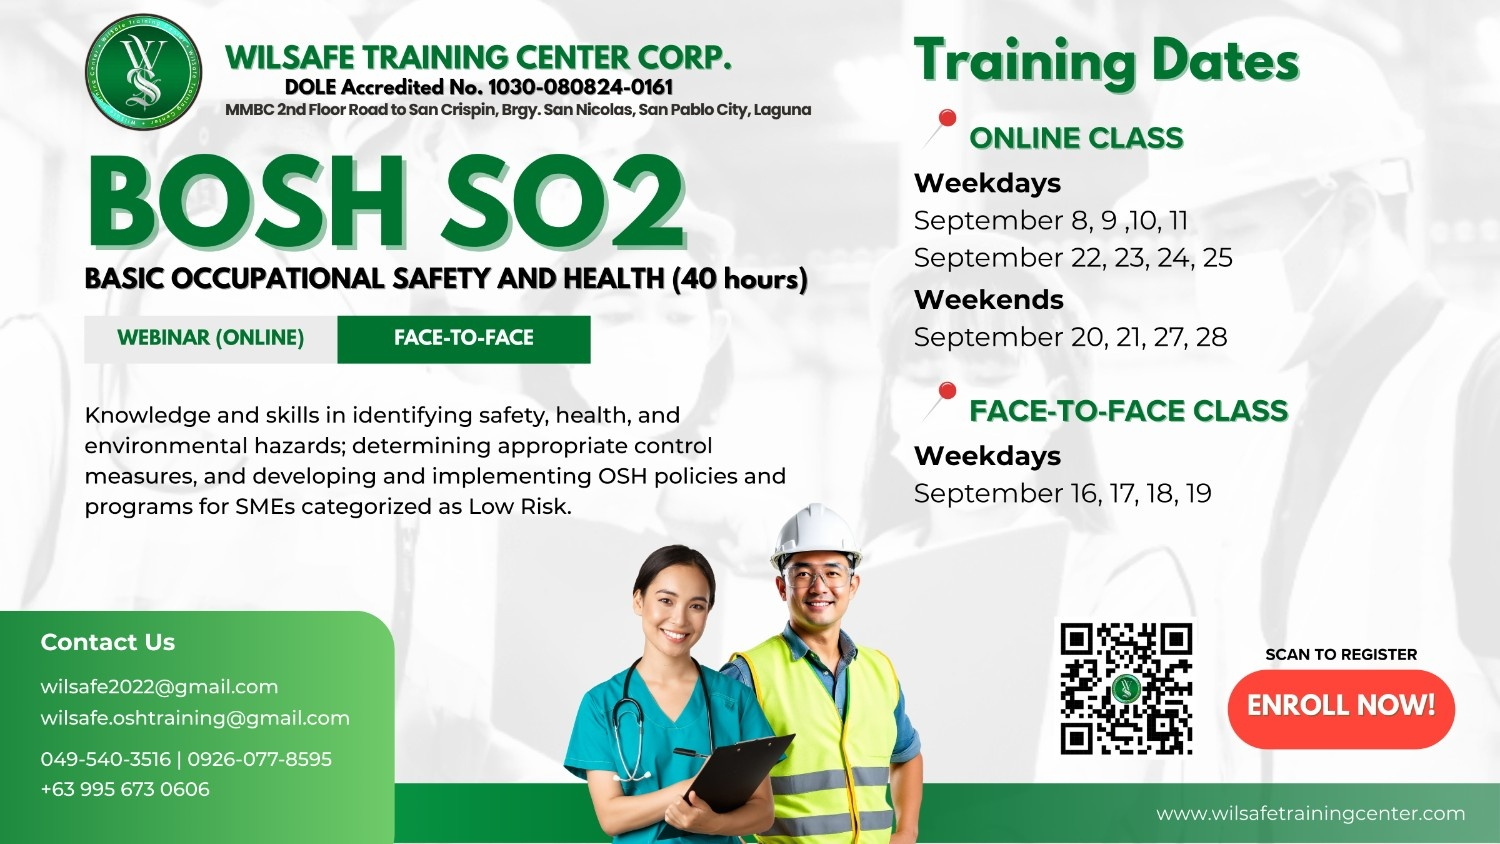
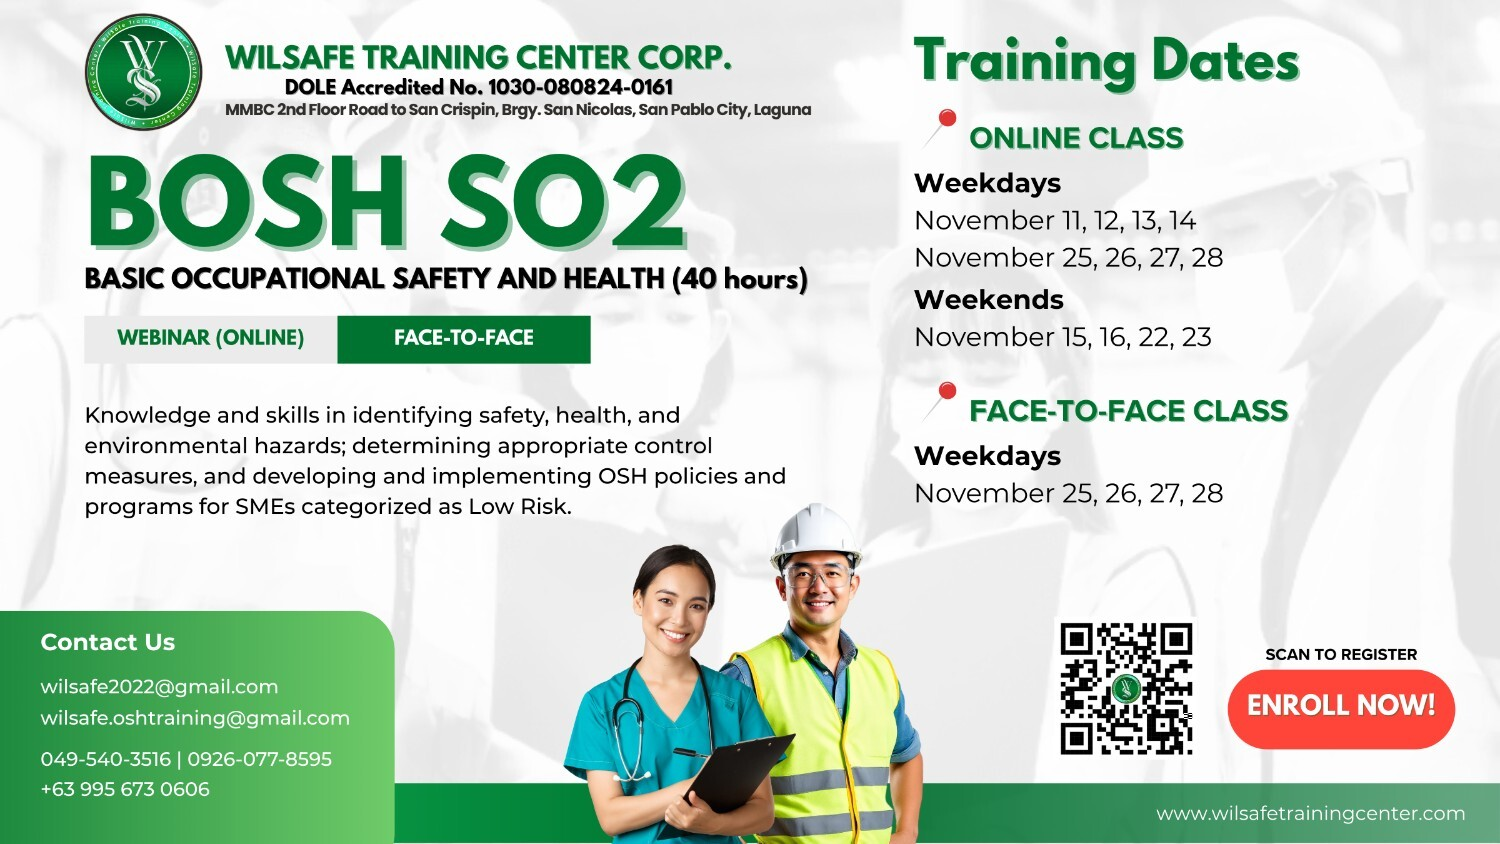
osh schedule november update

Changed region(s): [[0.6133, 0.2464, 0.828, 0.3389], [0.6133, 0.5545, 0.828, 0.6161], [0.6133, 0.3697, 0.828, 0.4313]]

diff --git a/public_html/courses/tot.html b/public_html/courses/tot.html
@@ -169,7 +169,7 @@
           <div class="modal-body wow fadeInRight" data-wow-duration="0.5s" data-wow-delay="0.3s">
             <!-- Project details-->
             <h2 class="text-uppercase">Training of Trainers</h2>
-            <img class="img-fluid d-block mx-auto" src="../assets/images/portfolio/5.jpg" alt="..." />
+            <img class="img-fluid d-block mx-auto" src="../assets/images/portfolio/5.jpeg" alt="..." />
 
             <!-- button group -->
             <div class="col-lg-12 cto justify-content-center cto-margin">
